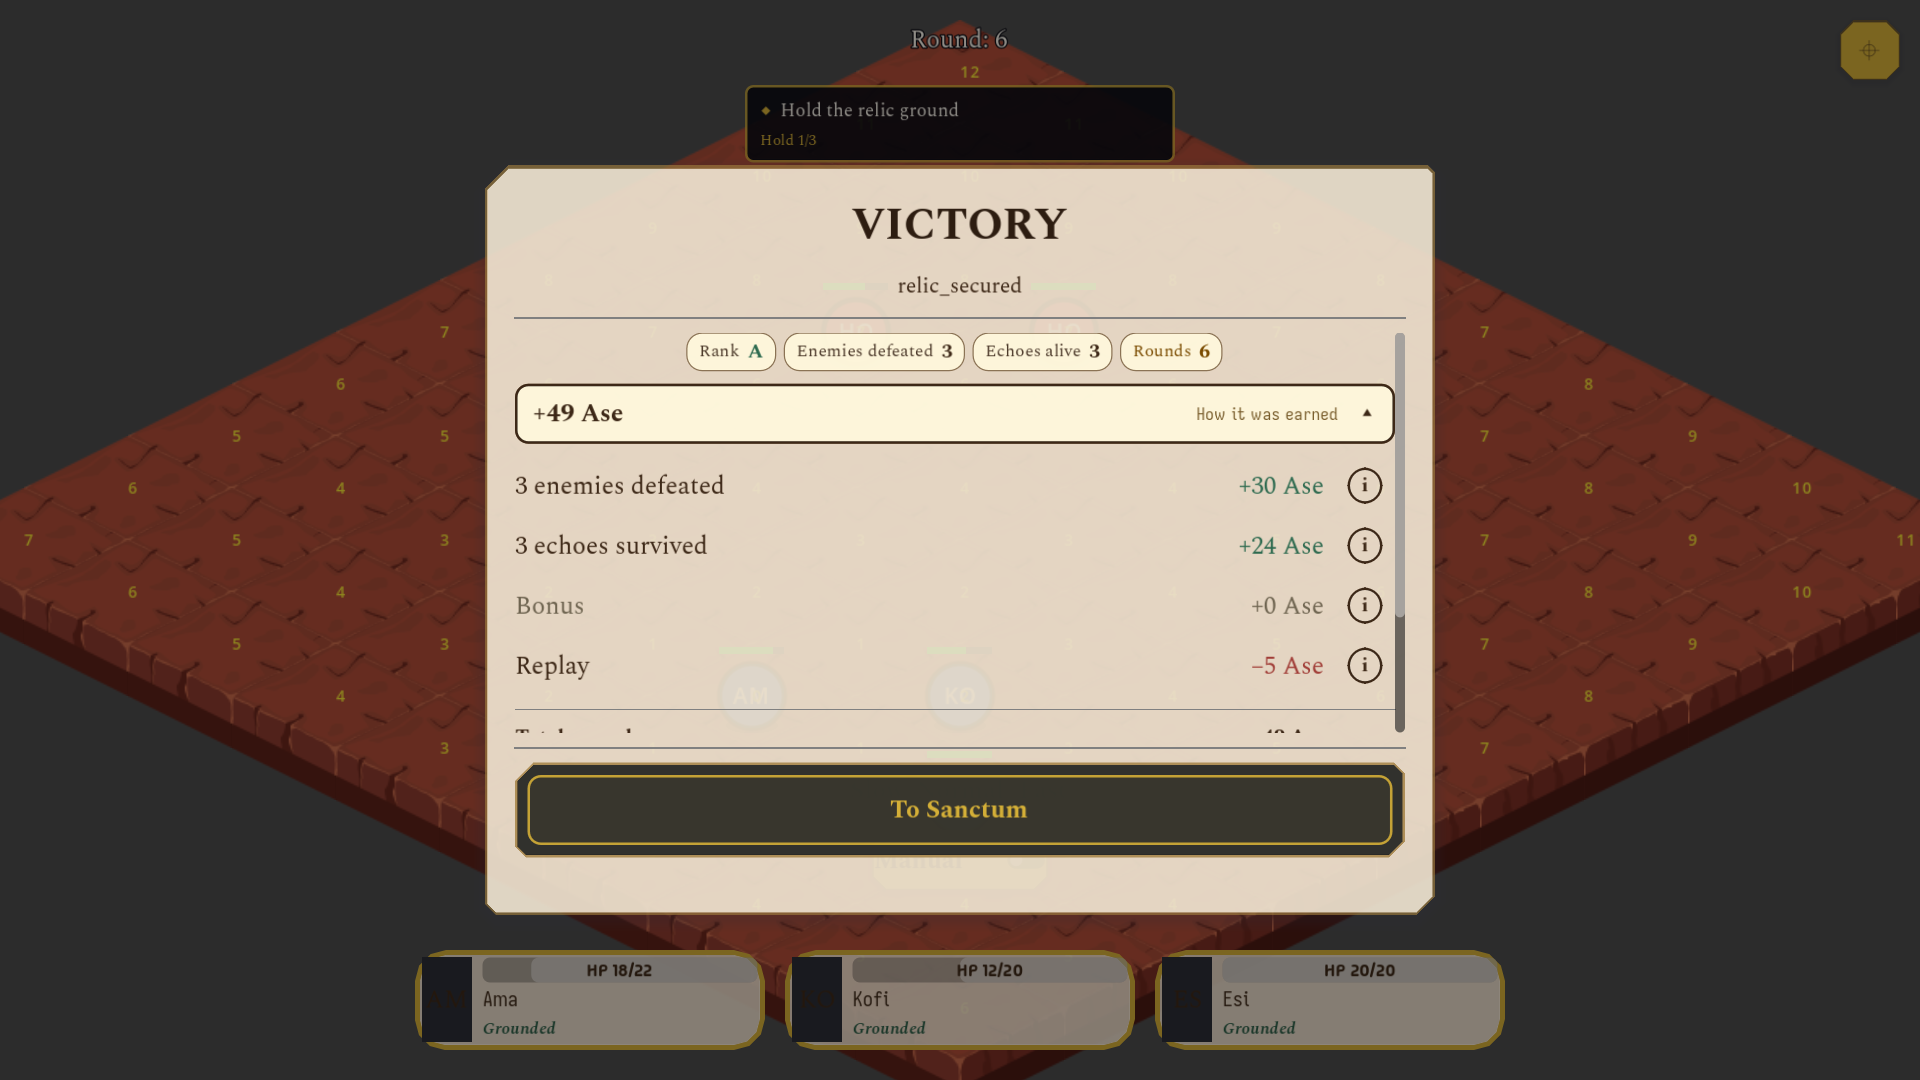
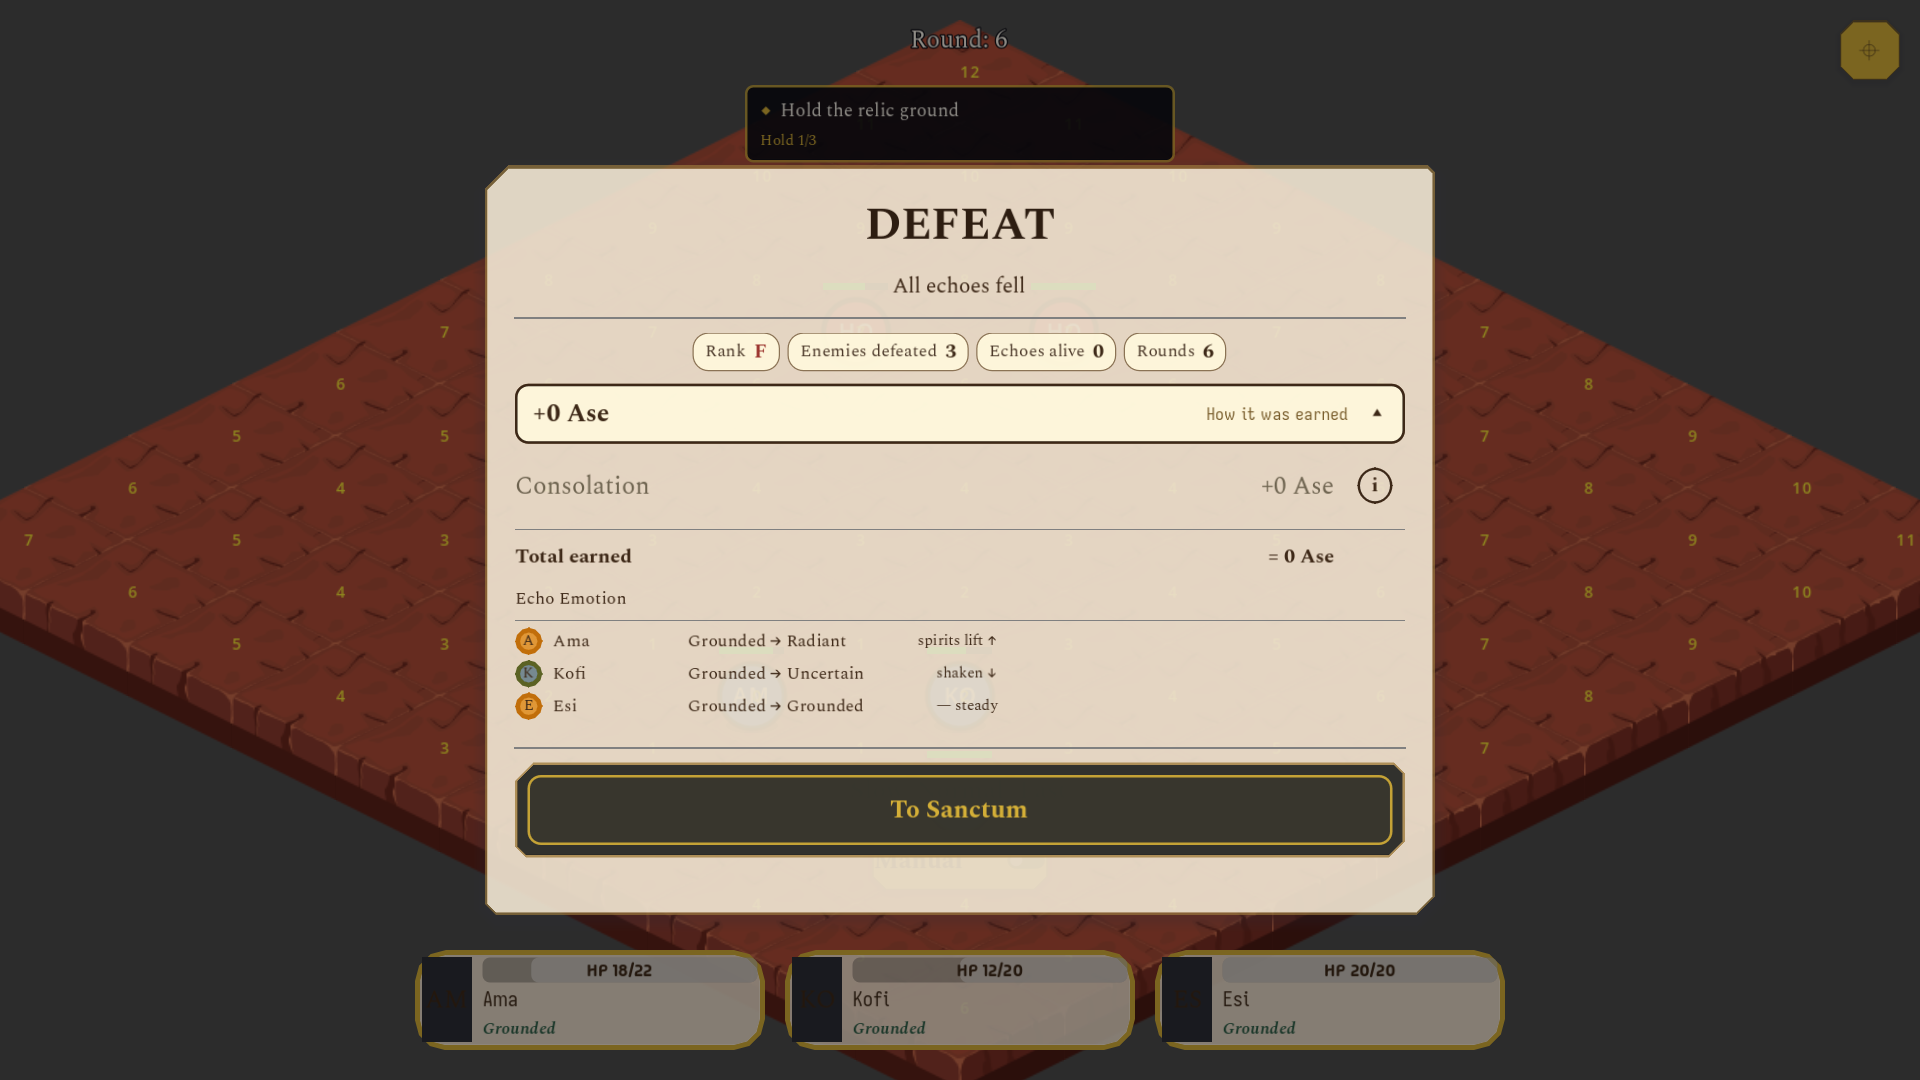
Update payout UI tests, fixtures and screenshots to the final rows
Pace tests keep the colour and rank-cause checks. The Pace bonus row checks are gone.

diff --git a/docs/stories/v2-payout-explanation/decisions.md b/docs/stories/v2-payout-explanation/decisions.md
@@ -75,3 +75,14 @@ Stage Replay tooltip (DECIDED, Jeff): "The party has been here before. The whole
 5. Rank rule (backend D-69): any death caps the rank at A; S needs everyone home. The mockup shows "rank B with one Echo lost" as an example only. It is invented. Do not build it as fact.
 
 Open for the UI: the return and retreat confirmation can say what is banked now and that the rest is paid when the stage is finished (PROPOSAL wording needed from Jeff; use "earned", not "paid", in player text).
+
+## Ledger update to the final backend row set (UI, 2026-10-24)
+
+- Removed from the UI table: `enemies_defeated`, `realm_virtue`, `bonus_earned`, `bonus_missed`, and the fight-level `echoes_alive`. A stray row with one of these shows its backend label and no (i).
+- A fight win has no rows: the card shows no earnings line, no ledger and sends no `resolve.ledger.mark_seen`.
+- Stage rows added: `echoes_alive` (row name "Echoes home", lost names in a second line) and `carried_advance` (row name "Carried home", negative amount).
+- PROPOSAL placeholders, not approved copy (Jeff owns the wording; a later ux-copy pass):
+  - `echoes_alive` tooltip: "Each Echo that comes home earns Ase."
+  - `carried_advance` tooltip: "Ase and Ekwan the party carried home earlier are taken off the stage payout, so nothing is earned twice."
+  - lost-names note: "Kofi did not come home." / "Ama and Kofi did not come home." / "Ama, Kofi and Esi did not come home."
+- All copy stays in `ui/components/PayoutCausePresentation.gd`.
